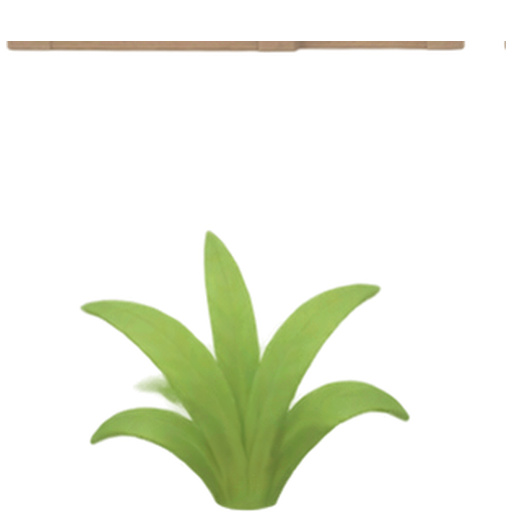
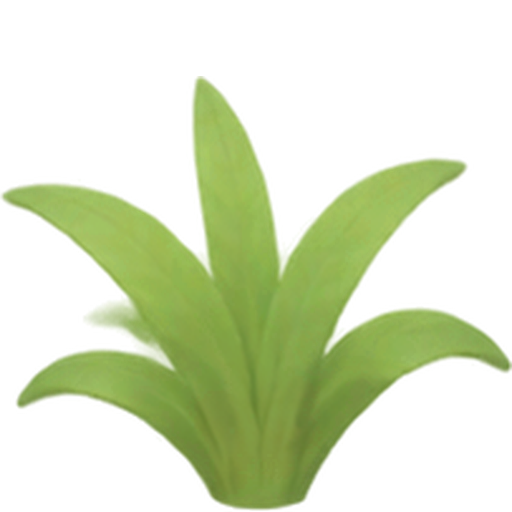
fix(一块田): 收割后作物残影、重种叠加、麦子图顶部横线
根因一：作物 holder 挂在 scene 上，清理时却从 plotGroup 里 remove，
remove 永远是空操作。每换一次阶段就多留一株在原地，所以收完还在、
重种重叠，麦子图上那条残留横线也跟着翻倍（4 条变 8 条）。
改成 removeFromParent，并把材质/几何体按去重集合释放。

根因二：wheat 四张图顶部各有一条约 460px 宽的残留横线，裁掉重排。

顺带：
- 作物贴图加缓存，同一张只加载一次，避免反复换阶段时重复下载
- 种子卡文案「卖 2」改成「收成 2」，收割提示补上「币」，
  之前容易被读成「要把麦子卖掉才能拿钱」
- 13 条引擎测试仍全过

Changed region(s): [[0.0, 0.0625, 1.0, 1.0]]

diff --git a/apps/farm/FarmScene.ts b/apps/farm/FarmScene.ts
@@ -42,6 +42,7 @@ export class FarmScene {
 
     private houseGroup = new THREE.Group();
     private houseTexCache = new Map<number, THREE.Texture>();
+    private cropTexCache = new Map<string, THREE.Texture>();
     private houseLevel = 1;
 
     private actor: ChibiVisitor | null = null;
@@ -230,8 +231,12 @@ export class FarmScene {
     // ---------- 作物 ----------
 
     private cropTexture(crop: CropId, stage: number) {
+        const key = `${crop}-${stage}`;
+        const cached = this.cropTexCache.get(key);
+        if (cached) return cached;
         const t = new THREE.TextureLoader().load(`${import.meta.env.BASE_URL}farm/${crop}-${stage}.png`);
         t.colorSpace = THREE.SRGBColorSpace;
+        this.cropTexCache.set(key, t);
         return t;
     }
 
@@ -244,15 +249,18 @@ export class FarmScene {
 
         const old = this.plotCrops[index];
         if (old) {
+            // 作物是挂在 scene 上的，不在 group 里：这里必须从父节点摘掉，
+            // 否则旧的一株会一直留在原地，新的一株叠在同一个位置
+            old.removeFromParent();
+            const materials = new Set<THREE.Material>();
+            const geometries = new Set<THREE.BufferGeometry>();
             old.traverse(o => {
-                if (o instanceof THREE.Mesh) {
-                    const m = o.material as THREE.MeshLambertMaterial;
-                    m.map?.dispose();
-                    m.dispose();
-                    o.geometry.dispose();
-                }
+                if (!(o instanceof THREE.Mesh)) return;
+                (Array.isArray(o.material) ? o.material : [o.material]).forEach(m => materials.add(m));
+                geometries.add(o.geometry);
             });
-            group.remove(old);
+            materials.forEach(m => m.dispose());
+            geometries.forEach(g => g.dispose());
             this.plotCrops[index] = null;
         }
 
@@ -524,6 +532,7 @@ export class FarmScene {
         });
         this.dropGeo.dispose();
         this.houseTexCache.forEach(t => t.dispose());
+        this.cropTexCache.forEach(t => t.dispose());
         this.clockTexture.dispose();
         this.scene.traverse(o => {
             if (o instanceof THREE.Mesh) {

diff --git a/apps/farm/FarmApp.tsx b/apps/farm/FarmApp.tsx
@@ -211,7 +211,7 @@ export default function FarmApp({ character, onBack }: { character?: CharacterPr
                     if (result.ok) {
                         setFarm(result.state);
                         setNow(Date.now());
-                        addToast(`收了${CROPS[plot.crop!].name} +${result.gained ?? 0}`);
+                        addToast(`收了${CROPS[plot.crop!].name}，+${result.gained ?? 0} 币`);
                     }
                     busyRef.current = false;
                     setBusy(false);
@@ -354,7 +354,7 @@ export default function FarmApp({ character, onBack }: { character?: CharacterPr
                                 <div className={`text-[9px] mt-0.5 ${unlocked ? 'text-slate-500' : 'text-slate-400'}`}>
                                     {unlocked ? (
                                         <>
-                                            {def.seedCost} 币 · 卖 {def.price}
+                                            种子 {def.seedCost} · 收成 {def.price}
                                             {!affordable && ' · 钱不够'}
                                         </>
                                     ) : (
